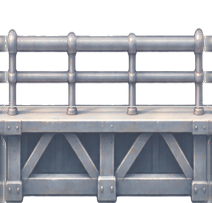
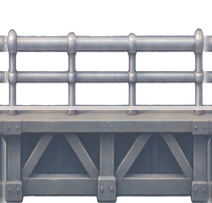
Monatium P3-A revision 10 (test branch): darker tower interior, opaque tower walls, darker ledge bodies; review passed
Ledge vs interior contrast inside towers 2.6 -> 14.8 (target >= 12). Cache key p3a2. Regression subset 5/5.

Changed region(s): [[0.0, 0.6798, 1.0, 1.0], [0.0, 0.5025, 1.0, 0.6798]]

diff --git a/renderer.js b/renderer.js
@@ -31,8 +31,8 @@ const STRUCTURE_ASSET_LIST = [
 
 // Image cache keys (not rewritten by tools/release.py): bump a key when its images change. v1.8.3: the repainted
 // Monatium steel parts and tower structures (art renewal P3-A) get their own key so no browser keeps the old ones.
-function terrainAssetQ(k) { return /^monatium\/steel_/.test(k) ? '?v=p3a1' : '?v=31R'; }
-const STRUCTURE_ASSET_Q = '?v=p3a1';
+function terrainAssetQ(k) { return /^monatium\/steel_/.test(k) ? '?v=p3a2' : '?v=31R'; }
+const STRUCTURE_ASSET_Q = '?v=p3a2';
 
 const TERRAIN_ASSET_LIST = [
   'forest/left', 'forest/middle_a', 'forest/middle_b', 'forest/middle_c', 'forest/right',

diff --git a/docs/art_v2/monatium/REV10_REVIEW.md b/docs/art_v2/monatium/REV10_REVIEW.md
@@ -1,0 +1,60 @@
+# 모나티엄 V2 수정 10개 검수 (`DUDU_MONATIUM_P3A_V2_REVISION10_261122.zip`)
+
+- 날짜: 2026-11-22
+- 지시문: `GPT_MONATIUM_STEEL_REVISION_BRIEF.md`
+- 적용: 브랜치 `monatium-steel-v2`
+- 판정: **통과.** V2 승인 7개와 함께 17개 전체를 사용자 미술 승인 대상으로 올린다.
+
+## 1. 규격 (지시문 2장 기준)
+
+| 항목 | 기준 | 결과 |
+| --- | --- | --- |
+| 크기, 해시 | V2와 같음 | 10개 모두 같음, SHA-256 10개 일치 |
+| 발판 실루엣 | V2와 2% 이내 | **0.00%** (투명 영역이 V2와 똑같다) |
+| 발판 몸통 밝기 | 35~42 | 42 (V2 51~53) |
+| 발판 윗선 밝기 | 80 이상 | 82~95. 106~109줄(`single_medium`은 103줄) |
+| 발판 0~27줄 | 투명 | 투명 |
+| 발판 모듈 경계 | 차이 0 | 0 |
+| 탑 내부 밝기 | 30~38 | 30 (V2 49) |
+| 탑 내부 | 불투명, 사방 반복 | 알파 최소 255, 상하·좌우 차이 0 |
+| 탑 벽 | 불투명 100%, 세로 반복 | 알파 최소 255, 위아래 차이 0. 밝기 39 |
+
+## 2. 게임 측정 (같은 카메라)
+
+발판의 윗선 아래 몸통 밝기와, 그 발판을 지웠을 때 같은 자리(바로 뒤)의 밝기를 비교했다.
+
+| | 탑 안(모나티엄 B) 차이 중앙값 | 12 이상인 발판 | 밖(모나티엄 A) 차이 중앙값 |
+| --- | --- | --- | --- |
+| V2 | 2.6 | 17% | 12.4 |
+| **수정본** | **14.8** | 67% | 21.6 |
+
+- 지시문 기준(12 이상)을 넘었다.
+- 휴대폰 화면(`rev10/r10_s2.jpg` 맨 아래)에서 탑 안 발판이 바로 보인다.
+
+## 3. 화면 판정
+
+비교: `rev10/r10_s1.jpg`, `rev10/r10_s2.jpg`. 각 줄은 왼쪽부터 원래 배포본, V2, 수정본이다.
+
+- **탑 내부:** 어두운 유리창과 굵은 철골 틀이 되었다. 낙서선과 막대 모양 건물이 없어졌고, 앞의 발판과 두두가 확실히 떠 보인다.
+- **탑 벽:** 막힌 철판이 되어 벽으로 읽힌다.
+- **야간:** 철골이 중간 회색이 되어 V2처럼 밤하늘 위에서 튀지 않는다. 윤곽은 보인다.
+- **바깥 발판:** 밝은 윗선과 어두운 몸통이라 광장과 하늘 위에서 더 잘 보인다.
+- **V2 검수의 정정:** 모나티엄 A 중간의 "비쳐 보이는 건물 덩어리"(A2, A3)는 벽이 아니다. 하늘길 발판 `M-SKY-SAFE2` 아래의 받침 기둥(`rooftop_pier`)이고 충돌이 없다. 승인된 V2 기둥 그림 그대로이며, 격자 받침으로 보이는 것은 문제가 아니다.
+
+**관찰 (불합격 아님)**
+- 탑 내부가 큰 어두운 유리 칸 위주라 세부가 적다. 밝은 낮 배경 옆에서는 다시 큰 어두운 덩어리로 보인다.
+- 그래도 원래 배포본의 남색 격자보다 덜 차갑고, 발판 판독이 우선이라 통과로 둔다.
+- 더 다듬는다면 유리 안쪽에 아주 흐린 실내 조명이나 반사를 더하는 정도이다(밝기는 38 이하 유지).
+
+## 4. 코드
+
+- 바뀐 이미지 캐시 키: `?v=p3a1` → `?v=p3a2` (`renderer.js`의 `terrainAssetQ`, `STRUCTURE_ASSET_Q`).
+- 다른 코드 변경은 없다(탑 내부 덧칠 끄기는 V2 적용 때 이미 들어감).
+- 회귀 테스트 일부 5/5 통과: 문법, 부팅, 수집물, 모드 열기, 맵 전환. 페이지 오류 0(낮, 야간, 휴대폰).
+- 이전 V2 10개는 `docs/art_v2/monatium/superseded_v2/`에 보관했다.
+
+## 5. 남은 일
+
+- 사용자 미술 승인을 받는다.
+- 승인되면 `monatium-steel-v2`를 main에 합치고 v1.8.3으로 묶는다.
+- 배포는 따로 승인을 받는다(main에는 아직 안 올린 v1.8.1, v1.8.2가 있다).
